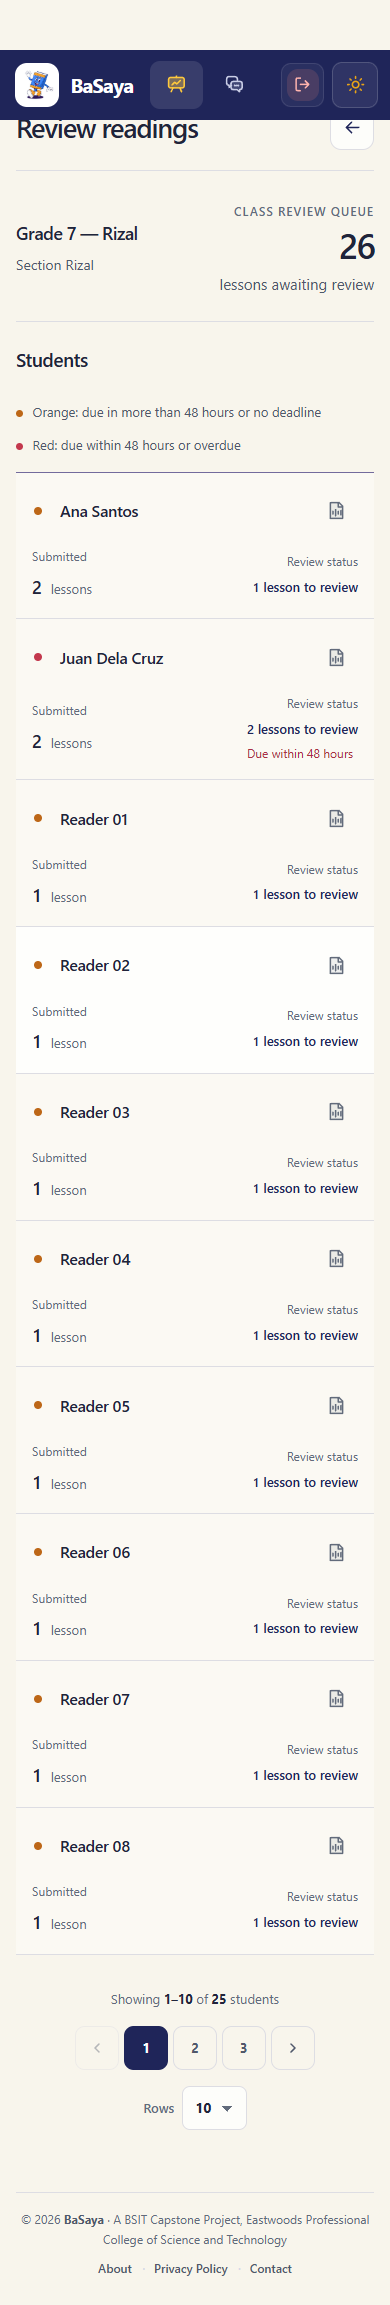
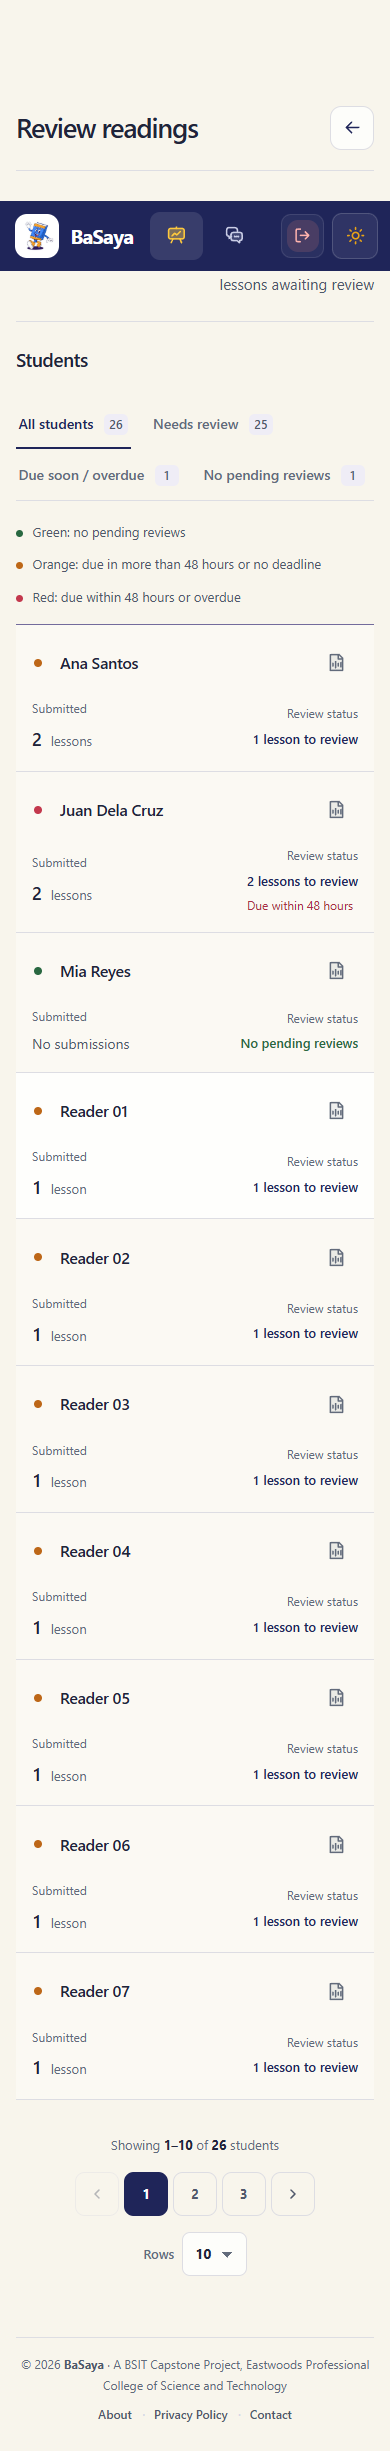
Add reading review status filters and retain all students

diff --git a/teacher/views/fluencyReview.js b/teacher/views/fluencyReview.js
@@ -117,7 +117,7 @@ export function readingReviewQueue(roster, rows, links = [], now = Date.now()) {
       .map(link => Number(link.dueAt?.toMillis?.() ?? link.dueAt) || 0).filter(value => value > 0));
     const deadline = deadlines.length ? Math.min(...deadlines) : null;
     return { ...student, pending: pending.length, total: submissions.length, deadline, urgent: deadline != null && deadline <= now + REVIEW_WINDOW };
-  }).filter(student => student.pending > 0)
+  })
     .sort((a, b) => a.name.localeCompare(b.name, undefined, { sensitivity: 'base', numeric: true }));
 }
 
@@ -159,7 +159,7 @@ export async function renderFluencyReview(classId, studentId = null, submissionI
     const back = $('#page-header .header-actions a');
     if (back) iconControl(back, 'back', back.getAttribute('aria-label') || back.textContent.trim());
     target.querySelectorAll('button, .reading-grade__actions a').forEach(control => {
-      if (control.hasAttribute('data-grade-drawer-control')) return;
+      if (control.hasAttribute('data-grade-drawer-control') || control.hasAttribute('data-reading-filter')) return;
       const label = control.textContent.trim();
       const icon = control.matches('[type="submit"]') ? 'save' : control.hasAttribute('data-review-play-all') ? 'play' : control.tagName === 'A' ? 'back' : 'retry';
       iconControl(control, icon, label);
@@ -198,9 +198,9 @@ export async function renderFluencyReview(classId, studentId = null, submissionI
         <thead><tr role="row"><th scope="col">Student</th><th scope="col">Submitted</th><th scope="col">Review status</th><th scope="col"><span class="sr-only">Open readings</span></th></tr></thead>
         <tbody>${students.map(item => `
           <tr class="reading-row reading-student-row" role="row" data-review-deadline="${item.deadline || ''}">
-            <th scope="row" role="rowheader"><div class="reading-student-identity"><span class="reading-student-dot is-pending${item.urgent ? ' is-urgent' : ''}" aria-hidden="true"></span><span class="reading-row__body"><strong>${escapeHtml(item.name)}</strong></span></div></th>
+            <th scope="row" role="rowheader"><div class="reading-student-identity"><span class="reading-student-dot${item.pending ? ' is-pending' : ''}${item.urgent ? ' is-urgent' : ''}" aria-hidden="true"></span><span class="reading-row__body"><strong>${escapeHtml(item.name)}</strong></span></div></th>
             <td class="reading-student-submitted" role="cell"><span class="reading-mobile-label" aria-hidden="true">Submitted</span><span class="reading-submitted__value">${item.total ? `<b>${item.total}</b> <span>${item.total === 1 ? 'lesson' : 'lessons'}</span>` : 'No submissions'}</span></td>
-            <td class="reading-student-status" role="cell"><span class="reading-mobile-label" aria-hidden="true">Review status</span><span class="reading-student-review-state"><span class="reading-status">${plural(item.pending, 'lesson')} to review</span><span class="reading-deadline-note" ${item.urgent ? '' : 'hidden'}>${item.urgent ? item.deadline <= Date.now() ? 'Overdue' : 'Due within 48 hours' : ''}</span></span></td>
+            <td class="reading-student-status" role="cell"><span class="reading-mobile-label" aria-hidden="true">Review status</span><span class="reading-student-review-state"><span class="reading-status${item.pending ? '' : ' is-clear'}">${item.pending ? `${plural(item.pending, 'lesson')} to review` : 'No pending reviews'}</span><span class="reading-deadline-note" ${item.urgent ? '' : 'hidden'}>${item.urgent ? item.deadline <= Date.now() ? 'Overdue' : 'Due within 48 hours' : ''}</span></span></td>
             <td class="reading-student-open" role="cell"><a class="reading-icon-button" href="${studentUrl(item.uid)}" aria-label="Open readings for ${escapeHtml(item.name)}" data-floating-tooltip="Open readings for ${escapeHtml(item.name)}" data-reading-tooltip>${reviewIcon('open')}</a></td>
           </tr>`).join('')}</tbody>
       </table>` : '';
@@ -216,15 +216,20 @@ export async function renderFluencyReview(classId, studentId = null, submissionI
     else target.querySelector('.reading-directory__heading p')?.remove();
     if (!student && students.length) target.querySelector('.reading-directory__heading').insertAdjacentHTML('afterend', `
       <div class="reading-dot-legend" role="group" aria-label="Review deadline colors">
+        <span><i class="reading-dot-legend__marker is-clear" aria-hidden="true"></i>Green: no pending reviews</span>
         <span><i class="reading-dot-legend__marker" aria-hidden="true"></i>Orange: due in more than 48 hours or no deadline</span>
         <span><i class="reading-dot-legend__marker is-urgent" aria-hidden="true"></i>Red: due within 48 hours or overdue</span>
       </div>`);
     clearInterval(deadlineTimer);
+    let refreshFilters = () => {};
     target.querySelectorAll('.reading-lesson-row').forEach(row => paintLessonDeadline(row));
     if (count) deadlineTimer = setInterval(() => {
       if (document.visibilityState === 'hidden') return;
       if (student) target.querySelectorAll('.reading-lesson-row').forEach(row => paintLessonDeadline(row));
-      else target.querySelectorAll('.reading-student-row').forEach(row => paintReviewDeadline(row));
+      else {
+        target.querySelectorAll('.reading-student-row').forEach(row => paintReviewDeadline(row));
+        refreshFilters();
+      }
     }, 60000);
     target.removeAttribute('aria-busy');
     const pending = (student ? lessons : rows).filter(row => row.status === 'submitted').length;
@@ -234,17 +239,36 @@ export async function renderFluencyReview(classId, studentId = null, submissionI
       </div>`);
     refineControls();
     if (!student && students.length) {
+      const filters = [['all', 'All students'], ['pending', 'Needs review'], ['urgent', 'Due soon / overdue'], ['clear', 'No pending reviews']];
+      target.querySelector('.reading-directory__heading').insertAdjacentHTML('afterend', `<div class="reading-filter-ribbon" role="group" aria-label="Filter students by review status">${filters.map(([key, label]) => `<button type="button" data-reading-filter="${key}" aria-pressed="${key === 'all'}"><span>${label}</span><span class="reading-filter-count" data-filter-count="${key}"></span></button>`).join('')}</div>`);
+      target.querySelector('.reading-directory__rows').insertAdjacentHTML('afterend', '<p class="reading-filter-empty" role="status" hidden>No students match this filter.</p>');
+      let activeFilter = 'all';
+      const studentRows = [...target.querySelectorAll('.reading-student-row')];
+      const matches = (row, key) => key === 'all' || (key === 'pending' ? !!row.querySelector('.is-pending') : key === 'urgent' ? !!row.querySelector('.is-pending.is-urgent') : !row.querySelector('.is-pending'));
       const decoratePagination = () => target.querySelectorAll('.pagination__button--nav').forEach(button => {
         button.querySelectorAll('span').forEach(span => span.remove());
         button.setAttribute('data-reading-tooltip', '');
         button.setAttribute('data-floating-tooltip', button.getAttribute('aria-label'));
       });
-      paginate({
+      const pagination = paginate({
         rows: () => [...target.querySelectorAll('.reading-student-row')],
         after: target.querySelector('.reading-directory__rows'),
         label: ['student', 'students'],
         onChange: decoratePagination,
       });
+      refreshFilters = (reset = false) => {
+        studentRows.forEach(row => { row.hidden = !matches(row, activeFilter); });
+        target.querySelectorAll('[data-reading-filter]').forEach(button => {
+          button.setAttribute('aria-pressed', String(button.dataset.readingFilter === activeFilter));
+          button.querySelector('[data-filter-count]').textContent = String(studentRows.filter(row => matches(row, button.dataset.readingFilter)).length);
+        });
+        target.querySelector('.reading-filter-empty').hidden = studentRows.some(row => !row.hidden);
+        if (reset) pagination.reset(); else pagination.refresh();
+      };
+      target.querySelectorAll('[data-reading-filter]').forEach(button => button.addEventListener('click', () => {
+        activeFilter = button.dataset.readingFilter; refreshFilters(true);
+      }));
+      refreshFilters();
       decoratePagination();
     }
     // Older API responses omit page counts. Read the recorded attempt, rather

diff --git a/css/pages/reading-review.css b/css/pages/reading-review.css
@@ -298,11 +298,21 @@ body:has(.reading-review) .site-footer__links button { font-size: .75rem; white-
 .reading-student-dot.is-pending.is-urgent { --reading-dot: #c3384d; }
 :root[data-theme="dark"] .reading-student-dot.is-pending.is-urgent { --reading-dot: #ff879c; }
 .reading-dot-legend { display: flex; flex-wrap: wrap; gap: .65rem 1.75rem; padding: 0 0 1rem; color: var(--ink-2); font-size: .8125rem; line-height: 1.7; }
+.reading-filter-ribbon { display: flex; flex-wrap: wrap; gap: .25rem 1.25rem; margin: 0 0 1.25rem; border-bottom: 1px solid var(--border); }
+.reading-review .reading-filter-ribbon button { display: inline-flex; align-items: center; gap: .65rem; min-height: 48px; padding: .75rem .15rem; margin-bottom: -1px; border: 0; border-bottom: 2px solid transparent; border-radius: 0; background: transparent; color: var(--ink-3); box-shadow: none; font-size: .875rem; font-weight: 500; line-height: 1.6; transition: color 180ms ease, border-color 180ms ease; }
+.reading-review .reading-filter-ribbon button:hover { color: var(--primary); background: var(--primary-soft); transform: none; }
+.reading-review .reading-filter-ribbon button[aria-pressed="true"] { color: var(--primary); border-bottom-color: var(--primary); }
+.reading-filter-count { display: inline-grid; place-items: center; min-width: 1.5rem; padding: .05rem .35rem; border-radius: .35rem; background: var(--reading-tint); color: var(--ink-2); font-size: .75rem; font-variant-numeric: tabular-nums; }
+.reading-filter-empty { padding: 1.5rem; text-align: center; color: var(--ink-3); font-size: .875rem; }
+.reading-review .reading-student-row[hidden] { display: none !important; }
 .reading-dot-legend > span { display: flex; align-items: baseline; gap: .6rem; min-width: 0; }
 .reading-dot-legend__marker { flex: 0 0 7px; width: 7px; height: 7px; border-radius: 50%; background: #bd6717; }
 .reading-dot-legend__marker.is-urgent { background: #c3384d; }
+.reading-dot-legend__marker.is-clear { background: var(--success); }
+.reading-review .reading-student-table .reading-status.is-clear { color: var(--success); }
 :root[data-theme="dark"] .reading-dot-legend__marker { background: #e3ac62; }
 :root[data-theme="dark"] .reading-dot-legend__marker.is-urgent { background: #ff879c; }
+:root[data-theme="dark"] .reading-dot-legend__marker.is-clear { background: var(--success); }
 @keyframes reading-status-pulse {
   0%, 100% { transform: scale(.85); box-shadow: 0 0 0 0 transparent; }
   45% { transform: scale(1.2); box-shadow: 0 0 0 4px color-mix(in srgb, var(--reading-dot) 50%, transparent); }
